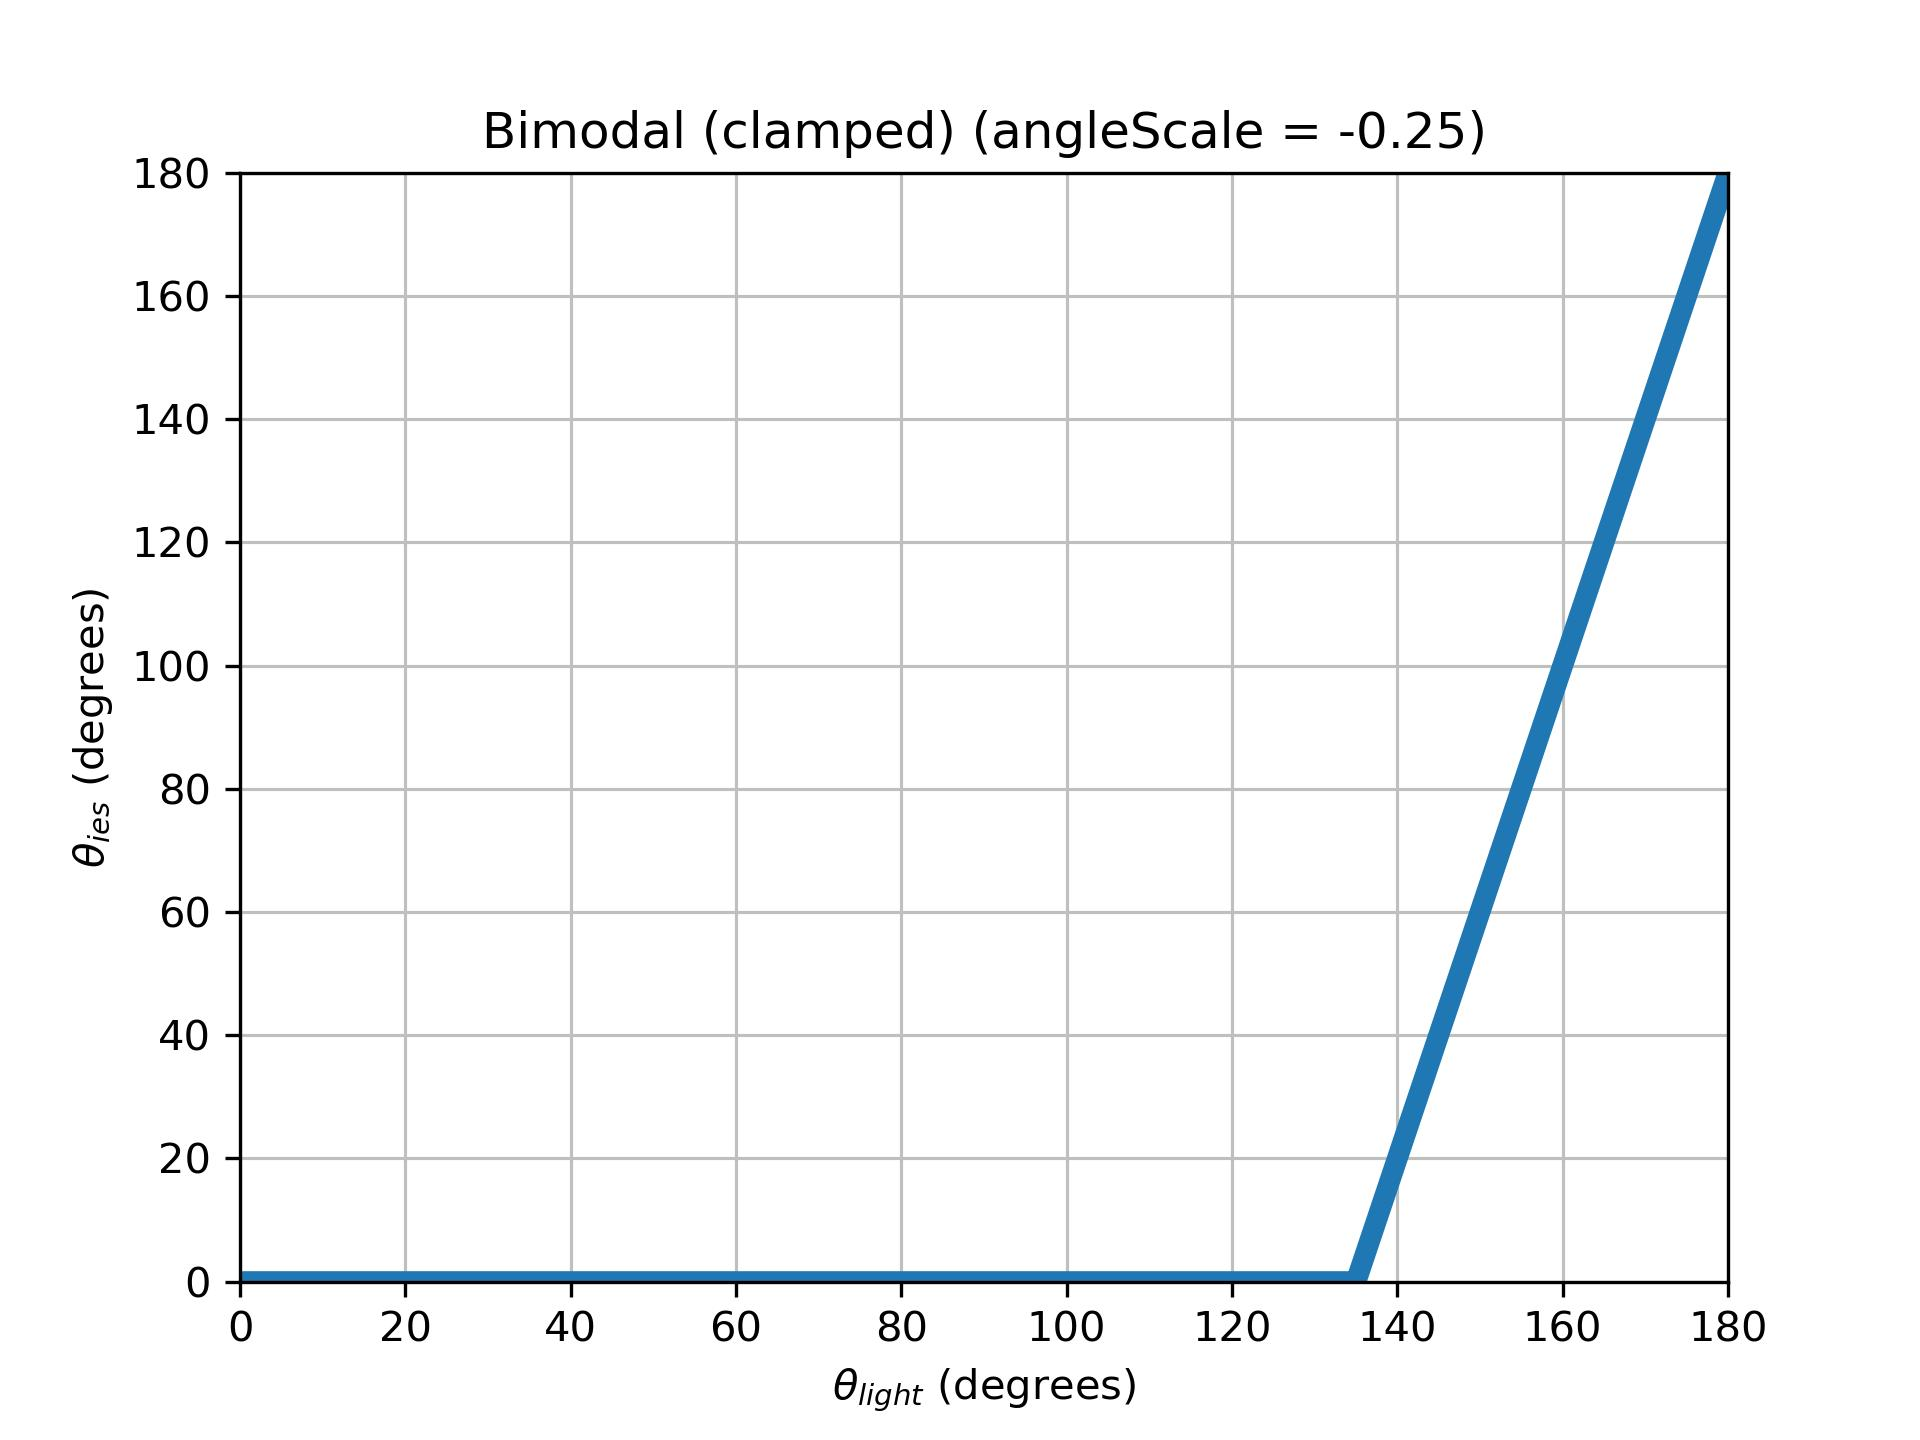
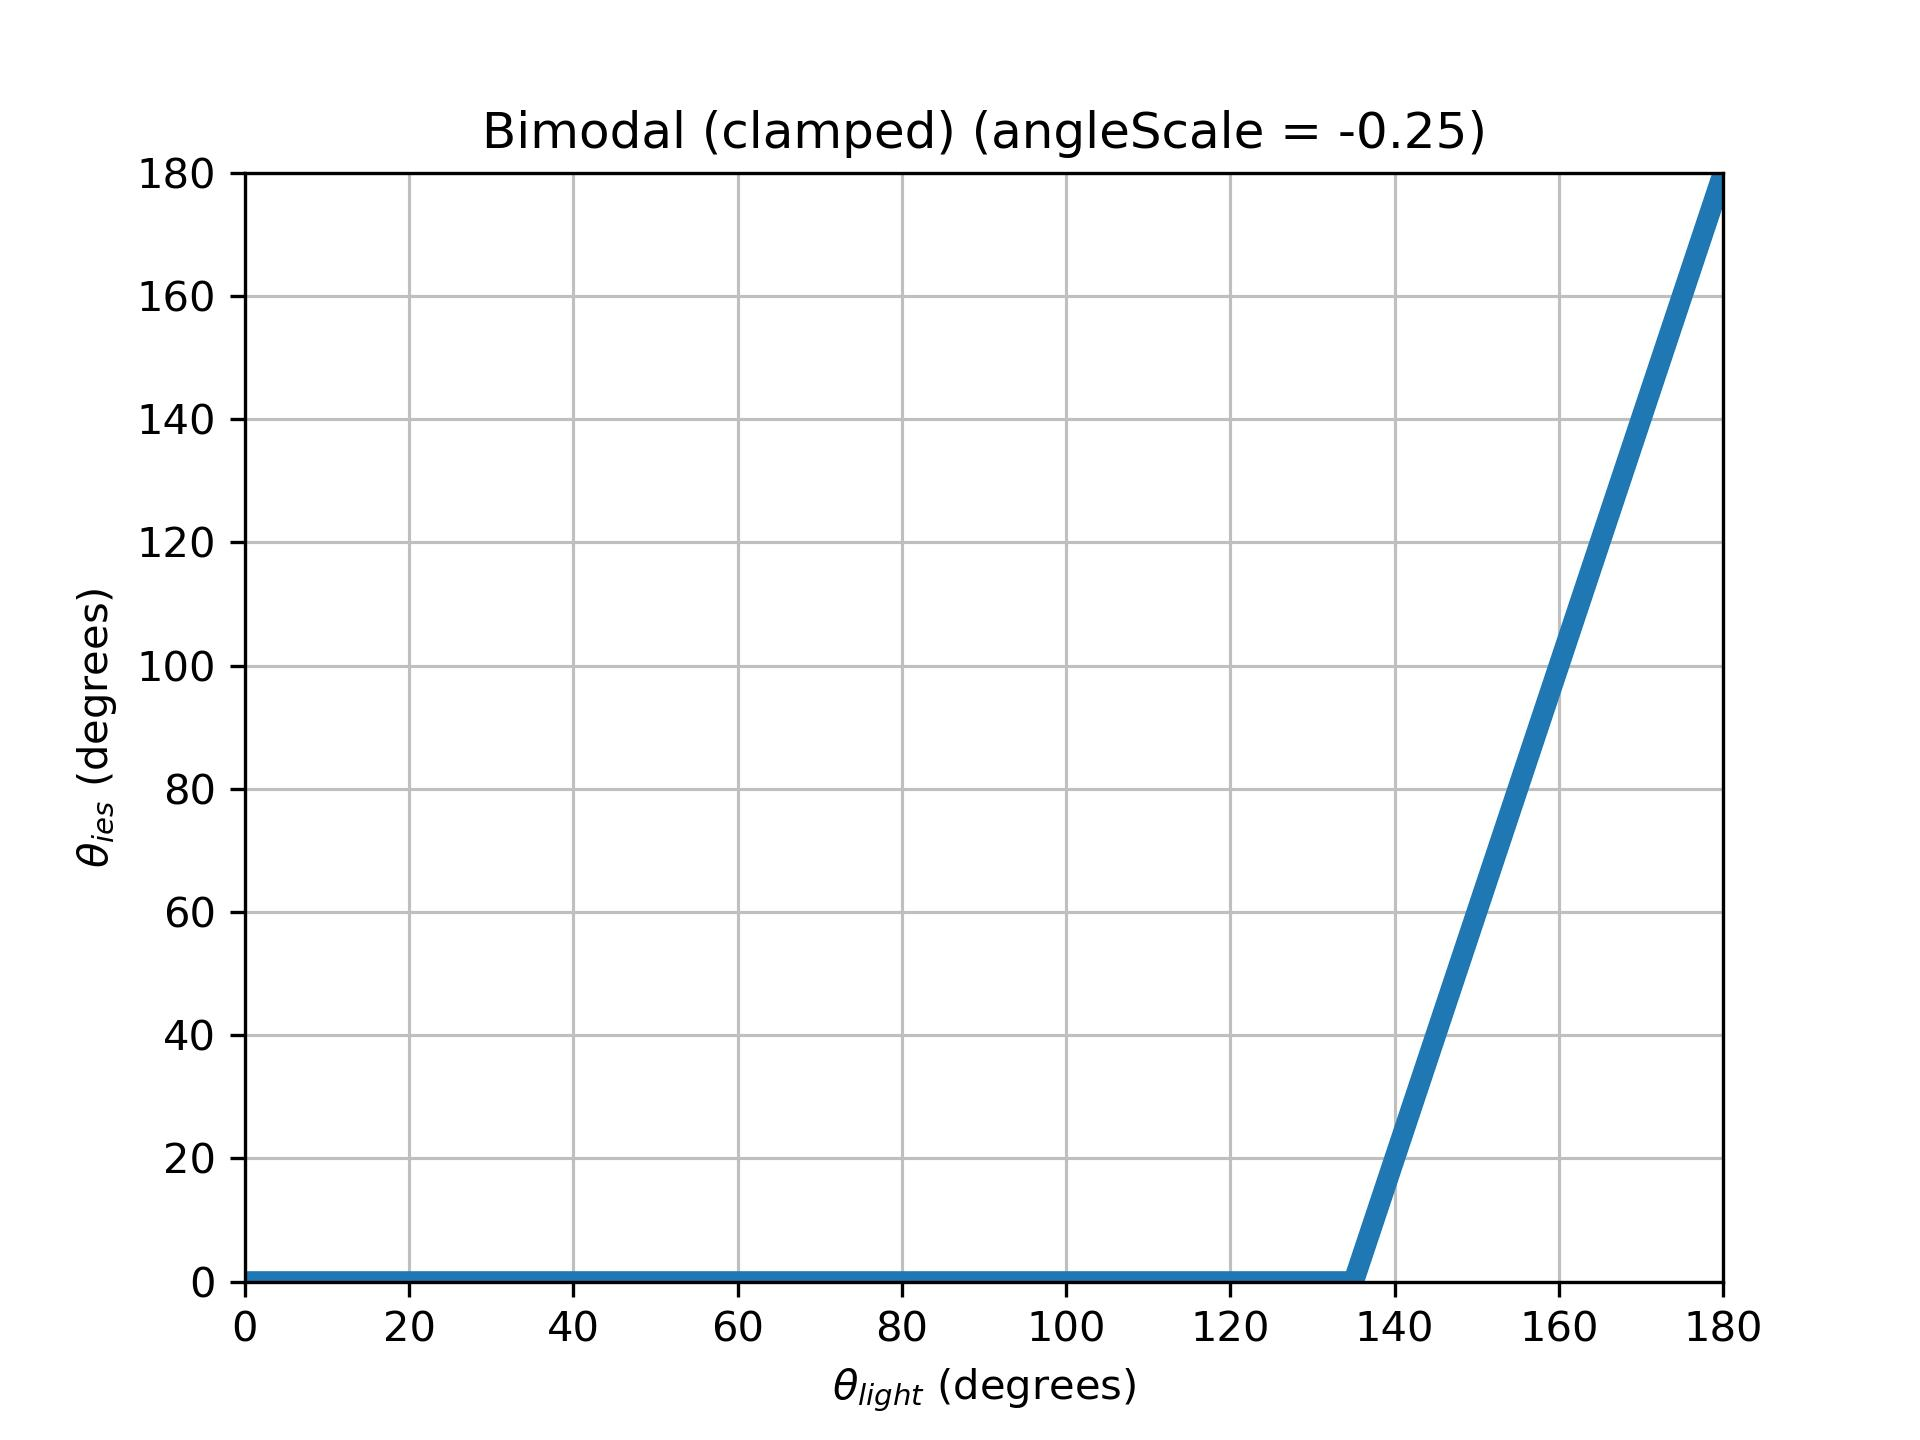
render bimodal graphs from -2 to +2, in .25 increments

diff --git a/pxr/usd/usdLux/iesAngleScale/angleScale_formulas.py b/pxr/usd/usdLux/iesAngleScale/angleScale_formulas.py
@@ -62,14 +62,20 @@ class ViewAngles:
     def set_on_axes(self, axes):
         if self.is_null():
             return
+        if not hasattr(axes, "view_init"):
+            return
         axes.view_init(elev=self.elev, azim=self.azim, roll=self.roll)
+
+BIMODAL_VIEW_ANGLE = ViewAngles(azim=25.97402597402598, elev=42.792207792207805)
+DEFAULT_VIEW_ANGLE = ViewAngles()
+
 
 @dataclasses.dataclass(frozen=True)
 class GraphOptions:
     theta_min_max: Tuple[float, float] = THETA_MIN_MAX
     angleScale_min_max: Tuple[float, float] = ANGLESCALE_MIN_MAX
     box_aspect: Tuple[float, float, float] = (1, 1, 1)
-    view_angles: ViewAngles = ViewAngles()
+    view_angles: ViewAngles = DEFAULT_VIEW_ANGLE
 
     def set_on_graph(self, graph):
         axes = graph.ax
@@ -82,12 +88,16 @@ class GraphOptions:
             axes.set_ylim(*self.angleScale_min_max)
             axes.set_zlim(*self.theta_min_max)
             axes.set_zlabel(THETA_OUTPUT_LABEL)
+            if self.box_aspect != (1, 1, 1):
+                print(f"{self.box_aspect=}")
+                axes.set_box_aspect(self.box_aspect)
         else:
             axes.set_ylim(*self.theta_min_max)
             axes.set_ylabel(THETA_OUTPUT_LABEL)
-
-        if self.box_aspect != (1, 1, 1):
-            axes.set_box_aspect(self.box_aspect)
+            aspect = (self.box_aspect[0], self.box_aspect[2])
+            if aspect != (1, 1):
+                aspectRatio = aspect[1] / aspect[0]
+                axes.set_aspect(aspectRatio)
 
         self.view_angles.set_on_axes(axes)
 
@@ -97,20 +107,13 @@ class GraphOptions:
     def angleScale_lim(self):
         return (angleScale,) + self.angleScale_min_max
 
-    def make_graph(self, function, title):
-        num_symbols = len(function.free_symbols)
-        if num_symbols == 1:
-            is3d = False
-        elif num_symbols == 2:
-            is3d = True
-        else:
-            raise ValueError(num_symbols)
+    def make_graph2d(self, function, title):
+        graph = spb.plot(function, self.theta_lim(), show=False, title=title)
+        self.set_on_graph(graph)
+        return graph
 
-        if is3d:
-            graph = spb.plot3d(function, self.theta_lim(), self.angleScale_lim(), show=False, title=title)
-        else:
-            graph = spb.plot(function, self.theta_lim(), show=False, title=title)
-
+    def make_graph3d(self, function, title):
+        graph = spb.plot3d(function, self.theta_lim(), self.angleScale_lim(), show=False, title=title)
         self.set_on_graph(graph)
         return graph
 
@@ -130,14 +133,17 @@ def save_graph(graph, filename, dpi=300):
     graph.fig.savefig(filepath, dpi=dpi)
 
 
-def save_graph_slices(function, title, filename, graph_options=DEFAULT_GRAPH):
-    for i in range(-100, 101, 25):
-        angleScale_val = i / 100
+def save_graph_slices(function, title, filename, num_slices, graph_options=DEFAULT_GRAPH):
+    start, end = graph_options.angleScale_min_max
+    dist = end - start
+    step = dist / (num_slices - 1)
+    for i in range(num_slices):
+        angleScale_val = round((i * step) + start, 6)
         angleScale_str = f"{angleScale_val:+.02f}"
         title_i = f"{title} (angleScale = {angleScale_str})"
         filename_i = f"{filename}_{angleScale_str}"
         slice_func = function.subs(angleScale, angleScale_val)
-        graph = graph_options.make_graph(slice_func, title=title_i)
+        graph = graph_options.make_graph2d(slice_func, title=title_i)
         if any(
             isinstance(x, sympy.core.numbers.ComplexInfinity)
             for x in slice_func.atoms()
@@ -161,8 +167,8 @@ def save_graph_slices(function, title, filename, graph_options=DEFAULT_GRAPH):
         plt.close(graph.fig)
 
 
-def plot3d_and_save(function, title, slices=False, graph_options=DEFAULT_GRAPH):
-    graph = graph_options.make_graph(function, title=title)
+def plot3d_and_save(function, title, slices=0, graph_options=DEFAULT_GRAPH):
+    graph = graph_options.make_graph3d(function, title=title)
     filename = f"ies_angleScale_{title}"
     filename = filename.replace(" - ", "-")
     filename = filename.replace("/", "over")
@@ -172,7 +178,7 @@ def plot3d_and_save(function, title, slices=False, graph_options=DEFAULT_GRAPH):
 
     save_graph(graph, filename)
     if slices:
-        save_graph_slices(function, title, filename, graph_options=graph_options)
+        save_graph_slices(function, title, filename, num_slices=slices, graph_options=graph_options)
     return graph
 
 
@@ -199,8 +205,7 @@ karma_pos_clamp = Clamp(
 
 # karma_graph = plot3d_and_save(karma, "Karma (unclamped)")
 
-# karma_clamp_graph = plot3d_and_save(karma_clamp, "Karma (clamped)", slices=True)
-# save_graph_slices(karma_clamp, "ies_angleScale_karma_clamped")
+karma_clamp_graph = plot3d_and_save(karma_clamp, "Karma (clamped)", slices=9)
 
 # karma_pos_clamp_graph = plot3d_and_save(
 #     karma_pos_clamp, "Karma - theta / (1-angleScale) only (clamped)"
@@ -212,7 +217,7 @@ rman_clamp = Clamp(sympy.Piecewise((rman, angleScale > -1), (0, True)), 0, THETA
 
 # rman_graph = plot3d_and_save(rman, "Renderman (unclamped)")
 
-# rman_clamp_graph = plot3d_and_save(rman_clamp, "Renderman (clamped)", slices=True)
+rman_clamp_graph = plot3d_and_save(rman_clamp, "Renderman (clamped)", slices=9)
 
 
 # if angleScale > 0, scale origin is at bottom (vangle=0)
@@ -222,20 +227,21 @@ rman_clamp = Clamp(sympy.Piecewise((rman, angleScale > -1), (0, True)), 0, THETA
 bimodal_pos = theta / angleScale
 bimodal_neg = ((theta - THETA_MAX) / -angleScale) + THETA_MAX
 bimodal_neg_clamp = Clamp(bimodal_neg, 0, THETA_MAX)
-# bimodal_neg_clamp_graph = plot3d_and_save(bimodal_neg_clamp, "Bimodal Neg (Clamped)", slices=False, angleScale_min_max=(-1, 0))
+# bimodal_neg_clamp_graph = plot3d_and_save(bimodal_neg_clamp, "Bimodal Neg (Clamped)", slices=9, angleScale_min_max=(-1, 0))
 
 bimodal = sympy.Piecewise((bimodal_pos, angleScale > 0), (bimodal_neg, angleScale < 0), (theta, True))
 bimodal_clamp = Clamp(bimodal, 0, THETA_MAX)
 
+
 bimodal_options = GraphOptions(
     angleScale_min_max=(-2, 2),
-    box_aspect=(1, 2, 1),
-    view_angles=ViewAngles(azim=25.97402597402598, elev=42.792207792207805))
+    box_aspect=(4, 8, 3),
+    view_angles=BIMODAL_VIEW_ANGLE)
 
 bimodal_clamp_graph = plot3d_and_save(
     bimodal_clamp,
     "Bimodal (clamped)",
-    slices=False,
+    slices=17,
     graph_options=bimodal_options,
 )
 
